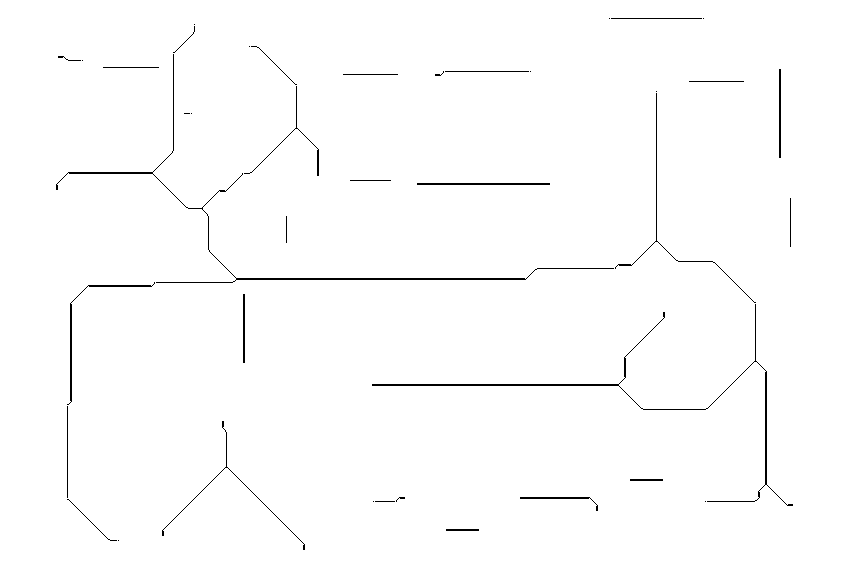
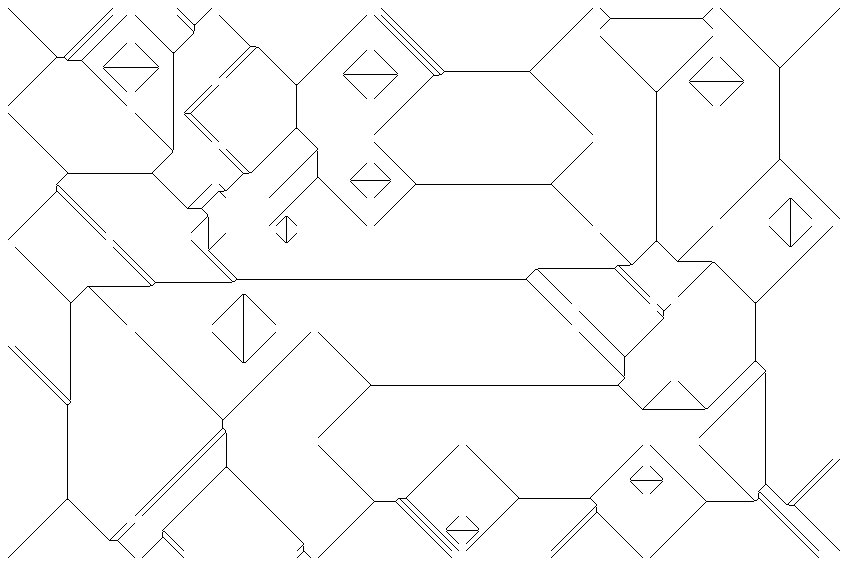
gvd: addded fixing of asym v-shapes

Changed region(s): [[0.5218, 0.9344, 0.5525, 0.9645], [0.4911, 0.0904, 0.5218, 0.1206], [0.1535, 0.4823, 0.1842, 0.5124]]

diff --git a/src/modules/geometry.h b/src/modules/geometry.h
@@ -851,45 +851,37 @@ geometry::gvd_graph2(const cv::Mat& img_gvd)
 
 	auto is_v_shape = [&](const cv::Point& pt) -> std::optional<std::vector<cv::Point>>
 	{
-		std::vector<cv::Point> vec_pts;
+		// return vector extendable points if match found
 
 		if (match_pattern_3x3(img, pt, PIXEL::PAT_V_UP))
-		{
-			vec_pts.push_back(pt);
-			vec_pts.push_back(pt + PIXEL::DIR_SE);
-			vec_pts.push_back(pt + PIXEL::DIR_SW);
-		}
+			return std::vector<cv::Point>{ pt, pt + PIXEL::DIR_SE, pt + PIXEL::DIR_SW };
+
 		else
 		if (match_pattern_3x3(img, pt, PIXEL::PAT_V_DOWN))
-		{
-			vec_pts.push_back(pt);
-			vec_pts.push_back(pt + PIXEL::DIR_NE);
-			vec_pts.push_back(pt + PIXEL::DIR_NW);
-		}
+			return std::vector<cv::Point>{ pt, pt + PIXEL::DIR_NE, pt + PIXEL::DIR_NW };
+
 		else
 		if (match_pattern_3x3(img, pt, PIXEL::PAT_V_LEFT))
-		{
-			vec_pts.push_back(pt);
-			vec_pts.push_back(pt + PIXEL::DIR_NE);
-			vec_pts.push_back(pt + PIXEL::DIR_SE);
-		}
+			return std::vector<cv::Point>{ pt, pt + PIXEL::DIR_NE, pt + PIXEL::DIR_SE };
+
 		else
 		if (match_pattern_3x3(img, pt, PIXEL::PAT_V_RIGHT))
-		{
-			vec_pts.push_back(pt);
-			vec_pts.push_back(pt + PIXEL::DIR_NW);
-			vec_pts.push_back(pt + PIXEL::DIR_SW);
-		}
-		
-		return vec_pts.empty() ? std::nullopt : std::optional(vec_pts);
+			return std::vector<cv::Point>{ pt, pt + PIXEL::DIR_NW, pt + PIXEL::DIR_SW };
+
+		// no match
+		return std::nullopt;
 	};
 
-	auto is_t_shape = [&](const cv::Point& pt)
+	auto is_asym_v_shape = [&](const cv::Point& pt) -> std::optional<cv::Mat>
 	{
-		;
+		for (const auto& p : PIXEL::PAT_ASYM_V_VEC)
+			if (match_pattern_3x3(img, pt, p))
+				return p;
+
+		return std::nullopt;
 	};
 
-	auto is_asym_v_shape = [&](const cv::Point& pt)
+	auto is_t_shape = [&](const cv::Point& pt) -> std::optional<cv::Mat>
 	{
 		;
 	};
@@ -899,9 +891,77 @@ geometry::gvd_graph2(const cv::Mat& img_gvd)
 		;
 	};
 
-	auto fix_asym_v_shapes = [&](const cv::Point& pt)
+	auto fix_asym_v_shapes = [&]()
 	{
-		;
+		iterate_mat(img, [&](auto& pos, auto& pixel)
+		{
+			cv::Mat fixer_pattern, roi;
+
+			if (auto pattern = is_asym_v_shape(pos))
+			{
+				// determine appropriate fixer pattern
+
+				// asymmetric v-shape pointing either up or left
+				if (mat_equal(pattern.value(), PIXEL::PAT_ASYM_V_UP_LEFT))
+				{
+					// v-shape must be upward
+					if (img.at<uchar>(pos + PIXEL::DIR_SE + PIXEL::DIR_W) == PIXEL::BLACK)
+						fixer_pattern = PIXEL::PAT_V_UP;
+
+					// v-shape must be leftward
+					if (img.at<uchar>(pos + PIXEL::DIR_NE + PIXEL::DIR_N) == PIXEL::BLACK)
+						fixer_pattern = PIXEL::PAT_V_LEFT;
+				}
+
+				// asymmetric v-shape pointing either up or right
+				else
+				if (mat_equal(pattern.value(), PIXEL::PAT_ASYM_V_UP_RIGHT))
+				{
+					// v-shape must be upward
+					if (img.at<uchar>(pos + PIXEL::DIR_SE + PIXEL::DIR_E) == PIXEL::BLACK)
+						fixer_pattern = PIXEL::PAT_V_UP;
+
+					// v-shape must be rightward
+					if (img.at<uchar>(pos + PIXEL::DIR_NW + PIXEL::DIR_N) == PIXEL::BLACK)
+						fixer_pattern = PIXEL::PAT_V_RIGHT;
+				}
+
+				// asymmetric v-shape pointing either down or left
+				else
+				if (mat_equal(pattern.value(), PIXEL::PAT_ASYM_V_DOWN_LEFT))
+				{
+					// v-shape must be downward
+					if (img.at<uchar>(pos + PIXEL::DIR_NW + PIXEL::DIR_W) == PIXEL::BLACK)
+						fixer_pattern = PIXEL::PAT_V_DOWN;
+
+					// v-shape must be rightward
+					if (img.at<uchar>(pos + PIXEL::DIR_SE + PIXEL::DIR_S) == PIXEL::BLACK)
+						fixer_pattern = PIXEL::PAT_V_LEFT;
+				}
+
+				// asymmetric v-shape pointing either down or right (darius)
+				else
+				if (mat_equal(pattern.value(), PIXEL::PAT_ASYM_V_DOWN_RIGHT))
+				{
+					// v-shape must be downward
+					if (img.at<uchar>(pos + PIXEL::DIR_NE + PIXEL::DIR_E) == PIXEL::BLACK)
+						fixer_pattern = PIXEL::PAT_V_DOWN;
+
+					// v-shape must be rightward
+					if (img.at<uchar>(pos + PIXEL::DIR_SW + PIXEL::DIR_S) == PIXEL::BLACK)
+						fixer_pattern = PIXEL::PAT_V_RIGHT;
+				}
+
+				// something went wrong
+				else
+					throw std::runtime_error(ERR_FIX_ASYM_V_SHAPE);
+				
+				// apply the derived fixer pattern to ROI
+				roi = img(cv::Rect(pos.x - 1, pos.y - 1, 3, 3));
+				cv::bitwise_or(roi, fixer_pattern, roi);
+				cv::bitwise_and(roi, fixer_pattern, roi);
+			}
+		});
 	};
 
 	auto fix_t_shapes = [&](const cv::Point& pt)
@@ -962,9 +1022,14 @@ geometry::gvd_graph2(const cv::Mat& img_gvd)
 	// -------------------------------------------------------------
 
 	// perform thinning
-	auto img_gvd_thin = thin_edges(img_gvd);
-	show_img("gvd: thinned", img_gvd_thin);
-	img = img_gvd_thin;
+	img = thin_edges(img_gvd);
+	show_img("gvd: thin lines (step 1)", img);
+	cv::imwrite("assets/output/img_gvd_step1.png", img);
+
+	// fix t-shapes
+	fix_asym_v_shapes();
+	show_img("gvd: fix asym v shapes (step 2)", img);
+	cv::imwrite("assets/output/img_gvd_step2.png", img);
 
 	// create output copy
 	cv::cvtColor(img, img_out, cv::COLOR_GRAY2BGR);
@@ -972,14 +1037,11 @@ geometry::gvd_graph2(const cv::Mat& img_gvd)
 	// expand v-shapes
 	expand_v_shapes();
 
-	// iterate_mat(img, [&](auto& pos, auto& pixel)
-	// {
-	// 	if (match_pattern_3x3(img, pos, { 0, 255, 255, 255, 0, 0, 0, 255, 255 }))
-	// 		img_out.at<cv::Vec3b>(pos) = { 0, 0, 255 };
-	// });
+	// number of edges found
+	std::cout << "number of edges: " << vec_edges.size() << std::endl;
 
-	cv::imwrite("assets/output/img_pattern_test.png", img_out);
-	show_img("pattern test", img_out);
+	cv::imwrite("assets/output/img_gvd_final.png", img_out);
+	show_img("gvd: final", img_out);
 
 }
 

diff --git a/src/modules/utils.h b/src/modules/utils.h
@@ -38,22 +38,29 @@ namespace PIXEL
 	constexpr auto IS_OBS  = BLACK;
 
 	// patterns
+	// order in vectors must match
 	inline const cv::Mat PAT_V_UP    = (cv::Mat_<uchar>(3,3) << WHITE, BLACK, WHITE, WHITE, BLACK, WHITE, BLACK, WHITE, BLACK);
 	inline const cv::Mat PAT_V_DOWN  = (cv::Mat_<uchar>(3,3) << BLACK, WHITE, BLACK, WHITE, BLACK, WHITE, WHITE, BLACK, WHITE);
 	inline const cv::Mat PAT_V_LEFT  = (cv::Mat_<uchar>(3,3) << WHITE, WHITE, BLACK, BLACK, BLACK, WHITE, WHITE, WHITE, BLACK);
 	inline const cv::Mat PAT_V_RIGHT = (cv::Mat_<uchar>(3,3) << BLACK, WHITE, WHITE, WHITE, BLACK, BLACK, BLACK, WHITE, WHITE);
+	inline const auto    PAT_V_VEC   = std::array{ PAT_V_UP, PAT_V_DOWN, PAT_V_LEFT, PAT_V_RIGHT };
+	
+	inline const cv::Mat PAT_ASYM_V_UP_LEFT    = (cv::Mat_<uchar>(3,3) << WHITE, BLACK, WHITE, BLACK, BLACK, WHITE, WHITE, WHITE, BLACK);
+	inline const cv::Mat PAT_ASYM_V_UP_RIGHT   = (cv::Mat_<uchar>(3,3) << WHITE, BLACK, WHITE, WHITE, BLACK, BLACK, BLACK, WHITE, WHITE);
+	inline const cv::Mat PAT_ASYM_V_DOWN_LEFT  = (cv::Mat_<uchar>(3,3) << WHITE, WHITE, BLACK, BLACK, BLACK, WHITE, WHITE, BLACK, WHITE);
+	inline const cv::Mat PAT_ASYM_V_DOWN_RIGHT = (cv::Mat_<uchar>(3,3) << BLACK, WHITE, WHITE, WHITE, BLACK, BLACK, WHITE, BLACK, WHITE);
+	inline const auto    PAT_ASYM_V_VEC        = std::array{ PAT_ASYM_V_UP_LEFT, PAT_ASYM_V_UP_RIGHT, PAT_ASYM_V_DOWN_LEFT, PAT_ASYM_V_DOWN_RIGHT };
 
 	// cardinal directions
-	inline const auto DIR_NW         = cv::Point(-1, -1);
-	inline const auto DIR_N          = cv::Point( 0, -1);
-	inline const auto DIR_NE         = cv::Point( 1, -1);
-	inline const auto DIR_W          = cv::Point(-1,  0);
-	inline const auto DIR_E          = cv::Point( 1,  0);
-	inline const auto DIR_SW         = cv::Point(-1,  1);
-	inline const auto DIR_S          = cv::Point( 0,  1);
-	inline const auto DIR_SE         = cv::Point( 1,  1);
-
-	inline const auto DIR_VEC        = std::array{ DIR_NW, DIR_N, DIR_NE, DIR_W, DIR_E, DIR_SW, DIR_S, DIR_SE };
+	inline const auto DIR_NW  = cv::Point(-1, -1);
+	inline const auto DIR_N   = cv::Point( 0, -1);
+	inline const auto DIR_NE  = cv::Point( 1, -1);
+	inline const auto DIR_W   = cv::Point(-1,  0);
+	inline const auto DIR_E   = cv::Point( 1,  0);
+	inline const auto DIR_SW  = cv::Point(-1,  1);
+	inline const auto DIR_S   = cv::Point( 0,  1);
+	inline const auto DIR_SE  = cv::Point( 1,  1);
+	inline const auto DIR_VEC = std::array{ DIR_NW, DIR_N, DIR_NE, DIR_W, DIR_E, DIR_SW, DIR_S, DIR_SE };
 
 	// point locations
 	template<typename T = uchar>
@@ -267,6 +274,26 @@ iterate_3x3(cv::Mat& img, cv::Point pt, std::function<void(cv::Point&, T&)> call
 	}
 }
 
+inline cv::Mat
+get_3x3_roi(const cv::Mat& img, const cv::Point& pt_center)
+{
+
+};
+
+template<typename T = uchar>
+inline bool
+mat_equal(const cv::Mat& a, const cv::Mat& b)
+{
+	return std::equal(a.begin<T>(), a.end<T>(), b.begin<T>());
+
+	// cv::Mat result;
+	// cv::bitwise_xor(a, b, result);
+	// return (cv::countNonZero(result) == 0);
+
+	// cv::Mat diff = a != b;
+	// return (cv::countNonZero(diff) == 0);
+}
+
 inline bool
 match_pattern_3x3(const cv::Mat& img, const cv::Point& pt_center, const cv::Mat& pattern)
 {
@@ -278,22 +305,9 @@ match_pattern_3x3(const cv::Mat& img, const cv::Point& pt_center, const cv::Mat&
 	if (not kernel_3x3_within_boundary(img, pt_center))
 		return false;
 
-	
-	cv::Mat result;
 	auto roi = img(cv::Rect(pt_center.x - 1, pt_center.y - 1, ROI_SIZE, ROI_SIZE));
 
-	cv::bitwise_xor(roi, pattern, result);
-
-	if (pt_center.x == 374 && pt_center.y == 501)
-	{
-		std::cout << pt_center << std::endl;
-		std::cout << roi << std::endl;
-		std::cout << pattern << std::endl;
-		std::cout << result << std::endl;
-		std::cout << cv::countNonZero(result) << std::endl;
-	}
-
-	return (cv::countNonZero(result) == 0);
+	return mat_equal(roi, pattern);
 }
 
 inline bool
@@ -402,7 +416,7 @@ thin_edges(const cv::Mat& img)
 
 	// https://answers.opencv.org/question/3207/what-is-a-good-thinning-algorithm-for-getting-the-skeleton-of-characters-for-ocr/
 	// https://stackoverflow.com/questions/6409759/extracting-segments-from-a-list-of-8-connected-pixels
-	
+
 	using namespace cv;
 
 	auto ThinSubiteration1 = [](Mat & pSrc, Mat & pDst)

diff --git a/src/constants.h b/src/constants.h
@@ -84,3 +84,4 @@ constexpr auto    ERR_NO_IMPL                 = "No implementation.";
 constexpr auto    ERR_NUM_NOT_POS             = "Number must be positive.";
 constexpr auto    ERR_EXCEED_LIDAR_RANGE      = "Number of lidar rays exceed maximum; check model.sdf and cached model of lidar sensor.";
 constexpr auto    ERR_PATTERN_MISMATCH_3x3    = "Pattern is not of size 3x3.";
+constexpr auto    ERR_FIX_ASYM_V_SHAPE        = "Unexpected error when fixing asymmetric v-shapes; undefined fixer pattern.";
